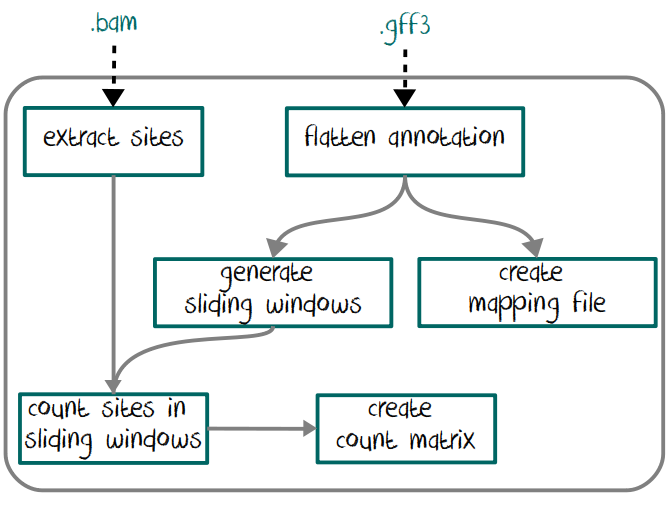
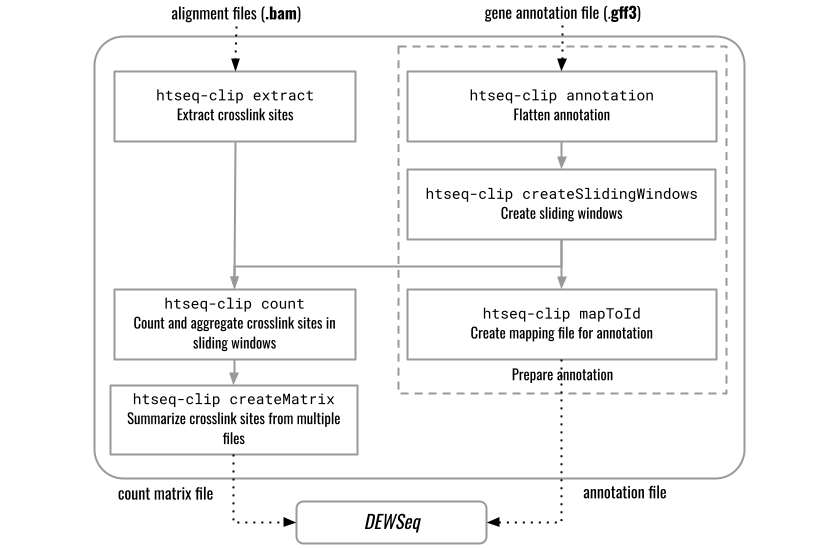
update documentation

Changed region(s): [[0.0, 0.0, 1.0, 1.0], [0.9595, 0.1562, 0.9895, 0.1875]]

diff --git a/docs/source/overview.rst b/docs/source/overview.rst
@@ -13,7 +13,7 @@ overview
 htseq-clip is a toolset designed for the processing and analysis of eCLIP/iCLIP dataset.
 This package is designed primarily to do the following operations:
 
-:ref:`Annotation <AnnotationOverview>`
+:ref:`Prepare annotation <AnnotationOverview>`
 ***************************************
 
 A suite of functions to process and flatten genome annotation file. 
@@ -173,7 +173,7 @@ An example is given below
  
 .. Note:: There will be zero overlap between neighboring windows from two separate gene features
 
-:ref:`Extraction <ExtractionOverview>`
+:ref:`Extract crosslink sites <ExtractionOverview>`
 **************************************
 Extract and process crosslink sites from alignment file.
 
@@ -290,7 +290,7 @@ Given below is an example paired end sequence and start, middle and end position
 
 .. Note:: In a paired end alignment file, argument ``--mate`` is used to choose the read/mate from which crosslink sites are extracted. The sequencing protocol used to generate the file determines whether the crosslink site is located on the first mate or the second mate. Please consult your sequencing protocol to decide which mate to use.
 
-:ref:`Count <CountOverview>`
+:ref:`Count crosslink sites <CountOverview>`
 ****************************
 Calculate the number of extracted crosslink sites per given gene annotation feature.
 

diff --git a/docs/source/documentation.rst b/docs/source/documentation.rst
@@ -19,7 +19,7 @@ The available functions can be categorized into 4 different classes given below.
 
 .. _AnnotationOverview:
 
-Annotation
+Prepare annotation
 **********
 
 .. _annotation:
@@ -93,7 +93,7 @@ Annotation
 
 .. _ExtractionOverview:
 
-Extraction
+Extract crosslink sites
 **********
 
 .. _extract:
@@ -141,7 +141,7 @@ Extraction
 
 .. _CountOverview:
 
-Counting
+Count crosslink sites
 ********
   
 .. _count:
@@ -164,7 +164,7 @@ Counting
     
     $ htseq-clip count -h
 
-Helpers
+Helper functions
 *******
   
 .. _createMatrix:
